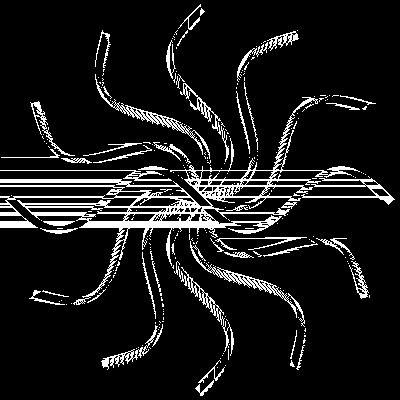
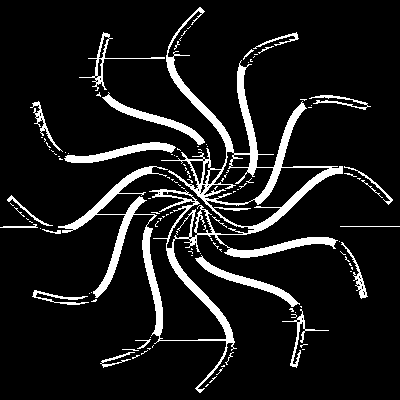
Beginning bilinear interpolater and fixing up stroke polygon

diff --git a/BitmapShader.cpp b/BitmapShader.cpp
@@ -23,10 +23,33 @@ void BitmapShader::shadeRow(int x, int y, int count, GPixel row[])
   {
     GPoint Point{i + x + 0.5f, y + 0.5f};
     Inverse.convertPoint(Point);
-    int NewX = Utility::clamp(0, (int)Point.fX, SrcBmp.width() - 1);
-    int NewY = Utility::clamp(0, (int)Point.fY, SrcBmp.height() - 1);
-    row[i] = *(SrcBmp.getAddr(NewX, NewY));
+    int pX = Utility::clamp(0, (int)Point.fX, SrcBmp.fWidth - 1);
+    int pY = Utility::clamp(0, (int)Point.fY, SrcBmp.fHeight - 1);
+    row[i] = *(SrcBmp.getAddr(pX, pY));
+    //row[i] = bilerp(Point.fX, Point.fY);
   }
+}
+
+GPixel BitmapShader::bilerp(float srcX, float srcY)
+{
+  int pX = Utility::round(srcX);
+  int pY = Utility::round(srcY);
+
+  int xAddr = Utility::clamp(0, pX, SrcBmp.fWidth - 1);
+  int yAddr = Utility::clamp(0, pY, SrcBmp.fHeight - 1);
+
+  GPixel p0 = *(SrcBmp.getAddr(xAddr, yAddr));
+  GPixel p1 = *(SrcBmp.getAddr(xAddr + 1, yAddr));
+  GPixel p2 = *(SrcBmp.getAddr(xAddr, yAddr + SrcBmp.fRowBytes));
+  GPixel p3 = *(SrcBmp.getAddr(xAddr + 1, yAddr + SrcBmp.fRowBytes));
+
+  uint8_t cx = Utility::floatToByte(Utility::floor_clamp(srcX) - 0.5f);
+  uint8_t cy = Utility::floatToByte(Utility::floor_clamp(srcY) - 0.5f);
+
+  uint8_t w00 = (0xff - cx) * (0xff - cy) >> 8;
+  uint8_t w10 = cx * (0xff - cy) >> 8;
+  uint8_t w01 = (0xff - cx) * cy >> 8;
+  uint8_t w11 = cx * cy >> 8;
 }
 
 GShader* GShader::FromBitmap(const GBitmap& src, const float localMatrix[6])

diff --git a/MyCanvas.cpp b/MyCanvas.cpp
@@ -151,14 +151,15 @@ void MyCanvas::strokePolygon(const GPoint Points[], int n, bool isClosed, const 
 
   std::vector<GQuad> Shells;
 
-  //Calculate every shell and store it into the vector
-  for (int i = 0; i < n - 1; ++i) {
-    Shells.emplace_back(GQuad{Points[i], Points[i + 1], stroke.fWidth});
+  for (int i = 0; i < n - 1; ++i)
+  {
+    Shells.emplace_back(GQuad::Make(Points[i], Points[i + 1], stroke.fWidth));
   }
 
   //If the polygon is closed then we connect the last and first points
-  if (isClosed) {
-    Shells.emplace_back(GQuad{Points[n-1], Points[0], stroke.fWidth});
+  if (isClosed) 
+  {
+    Shells.emplace_back(GQuad::Make(Points[n-1], Points[0], stroke.fWidth));
   }
 
   //Draw all of the shells

diff --git a/Utility.h b/Utility.h
@@ -24,8 +24,7 @@ inline T clamp(T min, T value, T max)
   return std::max(min, std::min(value, max));
 }
 
-template<typename T>
-inline T floor_clamp(T value) 
+inline float floor_clamp(float value) 
 {
   return value - std::floor(value);
 }
@@ -38,6 +37,12 @@ inline T lerp(T v0, T v1, T t) {
 inline int round(float a)
 {
   return (int)std::floor(a + .5);
+}
+
+inline uint8_t floatToByte(float i)
+{
+  int isx = (int)(i * 255.99999f);
+  return (uint8_t)(isx & 0xff);
 }
 
 GPoint unitVector(const GPoint& A, const GPoint& B);

diff --git a/GQuad.h b/GQuad.h
@@ -16,7 +16,7 @@ public:
   GPoint B;
   GPoint ABT;
 
-  static GQuad MakeShell(const GPoint& A, const GPoint& B, float width)
+  static GQuad Make(const GPoint& A, const GPoint& B, float width)
   {
     GPoint AB = Utility::unitVector(A, B);
     float rad = width * 0.5f;

diff --git a/BitmapShader.h b/BitmapShader.h
@@ -19,4 +19,5 @@ public:
   ~BitmapShader();
   bool setContext(const float ctm[6]) override;
   void shadeRow(int x, int y, int count, GPixel row[]) override;
+  GPixel bilerp(float srcX, float srcY);
 };
